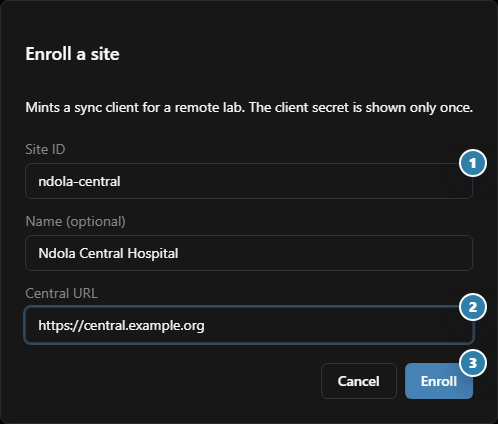
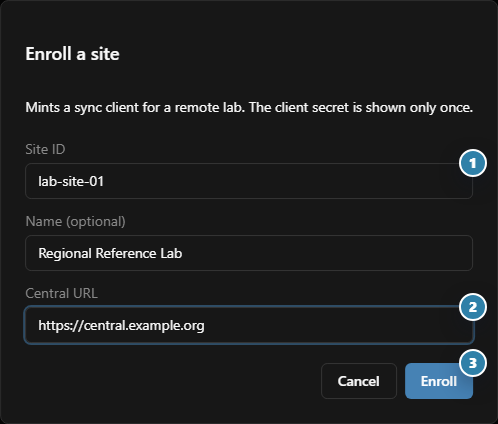
fix(settings): generic sync site examples + stop credential autofill
- Replace the Zambia-specific sync examples (lab-ndola-01 /
  sync-lab-ndola-01 / "Ndola Central Hospital") with neutral placeholders
  (lab-site-01 / sync-lab-site-01 / "Regional Reference Lab") across the
  UI placeholders, en/fr/pt, the screenshot manifest, and the sync docs.
- Opt the Client ID and Client secret fields out of browser autofill
  (autoComplete="off" / "new-password") so the password manager stops
  populating them (Client ID was being filled with the saved "admin").
- Regenerate both sync screenshots.

Changed region(s): [[0.0904, 0.3986, 0.241, 0.4599], [0.0602, 0.5825, 0.3614, 0.6132]]

diff --git a/apps/studio/src/pages/settings/General.tsx b/apps/studio/src/pages/settings/General.tsx
@@ -284,7 +284,7 @@ export function General() {
             <Input
               className="w-96 shrink-0"
               value={sync.siteId}
-              placeholder="lab-ndola-01"
+              placeholder="lab-site-01"
               onChange={(e) => setSync({ ...sync, siteId: e.target.value })}
               aria-label={t('settings.general.sync.siteId.label')}
             />
@@ -304,9 +304,10 @@ export function General() {
             <Input
               className="w-96 shrink-0"
               value={sync.clientId}
-              placeholder="sync-lab-ndola-01"
+              placeholder="sync-lab-site-01"
               onChange={(e) => setSync({ ...sync, clientId: e.target.value })}
               aria-label={t('settings.general.sync.clientId.label')}
+              autoComplete="off"
             />
           </div>
           <div className="flex items-center justify-between gap-4">
@@ -318,6 +319,7 @@ export function General() {
               placeholder={sync.clientSecretSet ? t('settings.general.sync.clientSecretSet') : ''}
               onChange={(e) => setSecretInput(e.target.value)}
               aria-label={t('settings.general.sync.clientSecret.label')}
+              autoComplete="new-password"
             />
           </div>
           <div className="flex items-center justify-between gap-4">

diff --git a/apps/studio/src/i18n/en.ts b/apps/studio/src/i18n/en.ts
@@ -141,7 +141,7 @@ export const en = {
     enrollTitle: 'Enroll a site',
     enrollDescription: 'Mints a sync client for a remote lab. The client secret is shown only once.',
     siteIdLabel: 'Site ID',
-    siteIdPlaceholder: 'e.g. ndola-central',
+    siteIdPlaceholder: 'e.g. lab-site-01',
     nameLabel: 'Name (optional)',
     namePlaceholder: 'Human-friendly label',
     centralUrlLabel: 'Central URL',

diff --git a/apps/studio/src/i18n/fr.ts b/apps/studio/src/i18n/fr.ts
@@ -145,7 +145,7 @@ export const fr: EnShape = {
     enrollTitle: 'Inscrire un site',
     enrollDescription: 'Crée un client de synchronisation pour un laboratoire distant. Le secret client n’est affiché qu’une seule fois.',
     siteIdLabel: 'ID du site',
-    siteIdPlaceholder: 'ex. ndola-central',
+    siteIdPlaceholder: 'ex. lab-site-01',
     nameLabel: 'Nom (facultatif)',
     namePlaceholder: 'Libellé lisible',
     centralUrlLabel: 'URL centrale',

diff --git a/apps/studio/src/i18n/pt.ts b/apps/studio/src/i18n/pt.ts
@@ -145,7 +145,7 @@ export const pt: EnShape = {
     enrollTitle: 'Inscrever um site',
     enrollDescription: 'Cria um cliente de sincronização para um laboratório remoto. O segredo do cliente é apresentado apenas uma vez.',
     siteIdLabel: 'ID do site',
-    siteIdPlaceholder: 'ex. ndola-central',
+    siteIdPlaceholder: 'ex. lab-site-01',
     nameLabel: 'Nome (opcional)',
     namePlaceholder: 'Rótulo legível',
     centralUrlLabel: 'URL central',

diff --git a/apps/studio/src/docs/0.1.0/en/sync.md b/apps/studio/src/docs/0.1.0/en/sync.md
@@ -32,7 +32,7 @@ Enrollment creates a confidential Keycloak client (`sync-<siteId>`) with a `site
 
    | Field | Notes |
    | --- | --- |
-   | Site ID | Stable identifier for the lab, e.g. `lab-ndola-01`. Lowercase letters, digits, and hyphens; 1–63 characters, not starting with a hyphen. Reused as the Keycloak client id and the registry key. |
+   | Site ID | Stable identifier for the lab, e.g. `lab-site-01`. Lowercase letters, digits, and hyphens; 1–63 characters, not starting with a hyphen. Reused as the Keycloak client id and the registry key. |
    | Name | Optional human-readable label. |
    | Central URL | The public base URL the lab will reach this central server on, e.g. `https://central.example.org`. Required. |
 
@@ -45,10 +45,10 @@ The site appears in the table with an **active** badge. From its row menu you ca
 Run these on the central server:
 
 ```
-openldr sync enroll lab-ndola-01 --name "Ndola Central Hospital" --central-url https://central.example.org
+openldr sync enroll lab-site-01 --name "Regional Reference Lab" --central-url https://central.example.org
 openldr sync list
-openldr sync rotate lab-ndola-01
-openldr sync revoke lab-ndola-01
+openldr sync rotate lab-site-01
+openldr sync revoke lab-site-01
 ```
 
 `sync enroll` prints the client id, client secret, site id, central URL, and OIDC issuer once, with a warning that the secret will not be shown again. `--central-url` is required. `sync list` shows enrolled sites and their status but never a secret. `sync rotate` prints a new secret once; `sync revoke` deletes the client and marks the row revoked, and is safe to re-run. Add `--json` to any of them for machine-readable output.
@@ -67,7 +67,7 @@ The lab operator takes the five values from enrollment — **client id**, **clie
    | Enabled | Master switch. Off keeps the workers dormant. |
    | Mode | **Push** (send operational data up only), **Pull** (receive reference config + terminology down only), or **Bidirectional** (both). |
    | Central URL | The central server's base URL from enrollment, e.g. `https://central.example.org`. |
-   | Site ID | This lab's site id, e.g. `lab-ndola-01`. |
+   | Site ID | This lab's site id, e.g. `lab-site-01`. |
    | OIDC issuer | The realm issuer from enrollment, e.g. `https://central.example.org/auth/realms/openldr`. |
    | Client ID | The minted client, `sync-<siteId>`. |
    | Client secret | The one-time secret from enrollment. Write-only and masked — leave it blank when editing other fields to keep the stored value. |

diff --git a/apps/web/src/docs/0.1.0/cli.md b/apps/web/src/docs/0.1.0/cli.md
@@ -93,10 +93,10 @@ Enroll a lab on the central server, then connect a lab to it:
 
 ```
 # On central: mint the lab's client + secret (printed once)
-pnpm openldr sync enroll lab-ndola-01 --central-url https://central.example.org
+pnpm openldr sync enroll lab-site-01 --central-url https://central.example.org
 
 # On the lab: apply the credentials, then check status
-pnpm openldr settings sync set clientId sync-lab-ndola-01
+pnpm openldr settings sync set clientId sync-lab-site-01
 pnpm openldr settings sync set mode bidirectional
 pnpm openldr settings sync set enabled true
 pnpm openldr sync status

diff --git a/docs/CLI-REFERENCE.md b/docs/CLI-REFERENCE.md
@@ -148,7 +148,7 @@ Enrollment requires the central Keycloak realm to grant the admin service accoun
 Enroll a lab on central, then hand the printed credentials to the lab operator:
 
 ```bash
-pnpm openldr sync enroll lab-ndola-01 --name "Ndola Central Hospital" --central-url https://central.example.org --json
+pnpm openldr sync enroll lab-site-01 --name "Regional Reference Lab" --central-url https://central.example.org --json
 pnpm openldr sync list --json
 ```
 

diff --git a/docs/OPERATOR-GUIDE.md b/docs/OPERATOR-GUIDE.md
@@ -223,7 +223,7 @@ Flow:
 1. **On central**, enroll each lab. This mints a confidential `sync-<siteId>` client with a `site_id` mapper, generates a secret shown once, and records a registry row. Use **Sites** in the app (admin-only) or the CLI:
 
    ```bash
-   pnpm openldr sync enroll lab-ndola-01 --name "Ndola Central Hospital" --central-url https://central.example.org
+   pnpm openldr sync enroll lab-site-01 --name "Regional Reference Lab" --central-url https://central.example.org
    pnpm openldr sync list
    ```
 